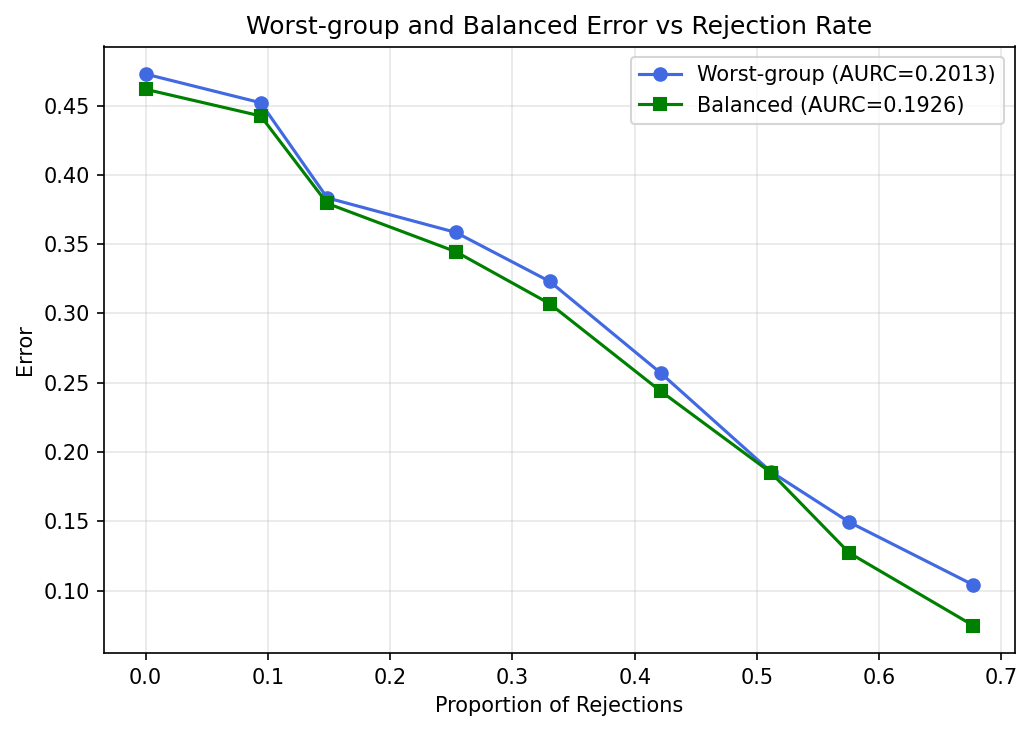
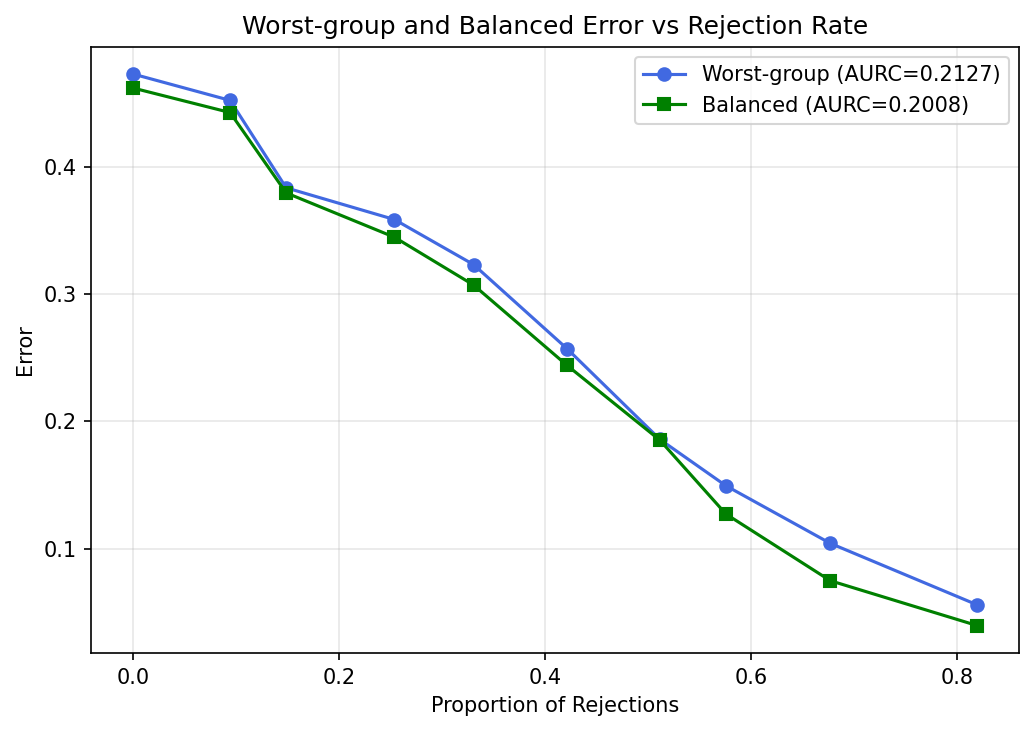
feat: new

diff --git a/run_worst_plugin_gating.py b/run_worst_plugin_gating.py
@@ -63,7 +63,7 @@ class Config:
     eg_step: float = 1.0
 
     # Target rejection grid
-    target_rejections: List[float] = (0.0, 0.1, 0.2, 0.3, 0.4, 0.5, 0.6, 0.7, 0.8)
+    target_rejections: List[float] = (0.0, 0.1, 0.2, 0.3, 0.4, 0.5, 0.6, 0.7, 0.8, 0.9)
 
     seed: int = 42
 
@@ -76,7 +76,9 @@ def ensure_dirs():
     Path(CFG.results_dir).mkdir(parents=True, exist_ok=True)
 
 
-def load_expert_logits(expert_names: List[str], split: str, device: str = DEVICE) -> torch.Tensor:
+def load_expert_logits(
+    expert_names: List[str], split: str, device: str = DEVICE
+) -> torch.Tensor:
     logits_list = []
     for expert_name in expert_names:
         path = Path(CFG.logits_dir) / expert_name / f"{split}_logits.pt"
@@ -96,12 +98,15 @@ def load_labels(split: str, device: str = DEVICE) -> torch.Tensor:
         if isinstance(t, torch.Tensor):
             return t.to(device=device, dtype=torch.long)
     import torchvision
+
     indices_file = Path(CFG.splits_dir) / f"{split}_indices.json"
     with open(indices_file, "r", encoding="utf-8") as f:
         indices = json.load(f)
     is_train = split in ("expert", "gating", "train")
     ds = torchvision.datasets.CIFAR100(root="./data", train=is_train, download=False)
-    return torch.tensor([ds.targets[i] for i in indices], dtype=torch.long, device=device)
+    return torch.tensor(
+        [ds.targets[i] for i in indices], dtype=torch.long, device=device
+    )
 
 
 def load_class_weights(device: str = DEVICE) -> torch.Tensor:
@@ -121,8 +126,11 @@ def load_class_weights(device: str = DEVICE) -> torch.Tensor:
 def load_gating_network(device: str = DEVICE):
     from src.models.gating_network_map import GatingNetwork, GatingMLP
     from src.models.gating import GatingFeatureBuilder
+
     num_experts = len(CFG.expert_names)
-    gating = GatingNetwork(num_experts=num_experts, num_classes=CFG.num_classes, routing="dense").to(device)
+    gating = GatingNetwork(
+        num_experts=num_experts, num_classes=CFG.num_classes, routing="dense"
+    ).to(device)
     # Rebuild MLP to match compact feature dimension from training (7*E + 3)
     compact_dim = 7 * num_experts + 3
     gating.mlp = GatingMLP(
@@ -130,7 +138,7 @@ def load_gating_network(device: str = DEVICE):
         num_experts=num_experts,
         hidden_dims=[256, 128],
         dropout=0.1,
-        activation='relu',
+        activation="relu",
     ).to(device)
     checkpoint_path = Path(CFG.gating_checkpoint)
     if not checkpoint_path.exists():
@@ -151,7 +159,9 @@ def load_gating_network(device: str = DEVICE):
 
 
 @torch.no_grad()
-def compute_mixture_posterior(expert_logits: torch.Tensor, gating_net, device: str = DEVICE) -> torch.Tensor:
+def compute_mixture_posterior(
+    expert_logits: torch.Tensor, gating_net, device: str = DEVICE
+) -> torch.Tensor:
     # expert_logits: [N, E, C]
     expert_posteriors = F.softmax(expert_logits, dim=-1)
     num_experts_logits = expert_logits.shape[1]
@@ -162,6 +172,7 @@ def compute_mixture_posterior(expert_logits: torch.Tensor, gating_net, device: s
         )
     # Build compact features and get weights via MLP + router
     from src.models.gating import GatingFeatureBuilder
+
     feat_builder = GatingFeatureBuilder()
     features = feat_builder(expert_logits)  # [N, 7*E+3]
     gating_logits = gating_net.mlp(features)
@@ -199,7 +210,9 @@ class GeneralizedLtRPlugin(nn.Module):
         num_groups = int(class_to_group.max().item() + 1)
         self.register_buffer("alpha_group", torch.ones(num_groups))
         self.register_buffer("mu_group", torch.zeros(num_groups))
-        self.register_buffer("beta_group", torch.ones(num_groups) / float(max(num_groups, 1)))
+        self.register_buffer(
+            "beta_group", torch.ones(num_groups) / float(max(num_groups, 1))
+        )
         self.register_buffer("cost", torch.tensor(0.0))
 
     def set_params(
@@ -216,7 +229,7 @@ class GeneralizedLtRPlugin(nn.Module):
 
     def _u_class(self) -> torch.Tensor:
         eps = 1e-12
-        u_group = (self.beta_group / self.alpha_group.clamp(min=eps))
+        u_group = self.beta_group / self.alpha_group.clamp(min=eps)
         return u_group[self.class_to_group]
 
     def _mu_class(self) -> torch.Tensor:
@@ -228,7 +241,9 @@ class GeneralizedLtRPlugin(nn.Module):
         return (posterior * u).argmax(dim=-1)
 
     @torch.no_grad()
-    def reject(self, posterior: torch.Tensor, cost: Optional[float] = None) -> torch.Tensor:
+    def reject(
+        self, posterior: torch.Tensor, cost: Optional[float] = None
+    ) -> torch.Tensor:
         u = self._u_class().unsqueeze(0)
         mu = self._mu_class().unsqueeze(0)
         max_reweighted = (posterior * u).max(dim=-1)[0]
@@ -278,7 +293,9 @@ def compute_metrics(
             group_errors.append(float(errors[mask].mean().item()))
         else:
             cw = class_weights[labels_a]
-            num = float((cw[mask] * (preds_a[mask] != labels_a[mask]).float()).sum().item())
+            num = float(
+                (cw[mask] * (preds_a[mask] != labels_a[mask]).float()).sum().item()
+            )
             den = float(cw[mask].sum().item())
             group_errors.append(num / max(den, 1e-12))
 
@@ -342,7 +359,7 @@ def compute_cost_for_target_rejection(
     alpha_t = torch.tensor(alpha, dtype=torch.float32, device=DEVICE)
     mu_t = torch.tensor(mu, dtype=torch.float32, device=DEVICE)
     beta_t = torch.tensor(beta, dtype=torch.float32, device=DEVICE)
-    u_group = (beta_t / alpha_t.clamp(min=1e-12))
+    u_group = beta_t / alpha_t.clamp(min=1e-12)
     u_class = u_group[class_to_group]
     mu_class = mu_t[class_to_group]
     max_rew = (posterior * u_class.unsqueeze(0)).max(dim=-1)[0]
@@ -367,9 +384,19 @@ def cs_plugin_inner(
     class_weights: Optional[torch.Tensor],
 ) -> Tuple[np.ndarray, np.ndarray, float, Dict[str, float]]:
     K = int(class_to_group.max().item() + 1)
-    best = {"obj": float("inf"), "alpha": None, "mu": None, "cost": None, "metrics": None}
+    best = {
+        "obj": float("inf"),
+        "alpha": None,
+        "mu": None,
+        "cost": None,
+        "metrics": None,
+    }
     for lam in CFG.mu_lambda_grid:
-        mu = np.array([0.0, float(lam)], dtype=np.float64) if K == 2 else np.zeros(K, dtype=np.float64)
+        mu = (
+            np.array([0.0, float(lam)], dtype=np.float64)
+            if K == 2
+            else np.zeros(K, dtype=np.float64)
+        )
         alpha = initialize_alpha(labels_s1, class_to_group)
         for _ in range(CFG.power_iter_iters):
             beta_t = torch.tensor(beta, dtype=torch.float32, device=DEVICE)
@@ -389,8 +416,12 @@ def cs_plugin_inner(
                 float(c_it),
             )
             rej = plugin.reject(posterior_s1)
-            alpha_new = update_alpha_from_coverage(rej, labels_s1, class_to_group, class_weights)
-            alpha = (1.0 - CFG.power_iter_damping) * alpha + CFG.power_iter_damping * alpha_new
+            alpha_new = update_alpha_from_coverage(
+                rej, labels_s1, class_to_group, class_weights
+            )
+            alpha = (
+                1.0 - CFG.power_iter_damping
+            ) * alpha + CFG.power_iter_damping * alpha_new
         c_s2 = compute_cost_for_target_rejection(
             posterior_s2, class_to_group, alpha, mu, beta, target_rej
         )
@@ -402,10 +433,18 @@ def cs_plugin_inner(
         )
         preds_s2 = plugin.predict(posterior_s2)
         rej_s2 = plugin.reject(posterior_s2)
-        m_s2 = compute_metrics(preds_s2, labels_s2, rej_s2, class_to_group, class_weights)
+        m_s2 = compute_metrics(
+            preds_s2, labels_s2, rej_s2, class_to_group, class_weights
+        )
         obj = float(np.sum(np.array(m_s2["group_errors"]) * np.array(beta)))
         if obj < best["obj"]:
-            best = {"obj": obj, "alpha": alpha.copy(), "mu": mu.copy(), "cost": float(c_s2), "metrics": m_s2}
+            best = {
+                "obj": obj,
+                "alpha": alpha.copy(),
+                "mu": mu.copy(),
+                "cost": float(c_s2),
+                "metrics": m_s2,
+            }
     # Local refinement around best μ (λ)
     if K == 2 and best["mu"] is not None:
         base_lam = float(best["mu"][1])
@@ -432,8 +471,12 @@ def cs_plugin_inner(
                         float(c_it),
                     )
                     rej = plugin.reject(posterior_s1)
-                    alpha_new = update_alpha_from_coverage(rej, labels_s1, class_to_group, class_weights)
-                    alpha = (1.0 - CFG.power_iter_damping) * alpha + CFG.power_iter_damping * alpha_new
+                    alpha_new = update_alpha_from_coverage(
+                        rej, labels_s1, class_to_group, class_weights
+                    )
+                    alpha = (
+                        1.0 - CFG.power_iter_damping
+                    ) * alpha + CFG.power_iter_damping * alpha_new
                 c_s2 = compute_cost_for_target_rejection(
                     posterior_s2, class_to_group, alpha, mu, beta, target_rej
                 )
@@ -445,18 +488,28 @@ def cs_plugin_inner(
                 )
                 preds_s2 = plugin.predict(posterior_s2)
                 rej_s2 = plugin.reject(posterior_s2)
-                m_s2 = compute_metrics(preds_s2, labels_s2, rej_s2, class_to_group, class_weights)
+                m_s2 = compute_metrics(
+                    preds_s2, labels_s2, rej_s2, class_to_group, class_weights
+                )
                 obj = float(np.sum(np.array(m_s2["group_errors"]) * np.array(beta)))
                 tried.append((lam, obj, alpha.copy(), mu.copy(), float(c_s2), m_s2))
             lam_b, obj_b, alpha_b, mu_b, c_b, m_b = min(tried, key=lambda x: x[1])
             if obj_b < best["obj"]:
-                best = {"obj": obj_b, "alpha": alpha_b, "mu": mu_b, "cost": c_b, "metrics": m_b}
+                best = {
+                    "obj": obj_b,
+                    "alpha": alpha_b,
+                    "mu": mu_b,
+                    "cost": c_b,
+                    "metrics": m_b,
+                }
                 base_lam = lam_b
             step *= 0.5
     return best["alpha"], best["mu"], best["cost"], best["metrics"]
 
 
-def plot_rc(r: np.ndarray, ew: np.ndarray, eb: np.ndarray, aw: float, ab: float, out_path: Path):
+def plot_rc(
+    r: np.ndarray, ew: np.ndarray, eb: np.ndarray, aw: float, ab: float, out_path: Path
+):
     plt.figure(figsize=(7, 5))
     plt.plot(r, ew, "o-", label=f"Worst-group (AURC={aw:.4f})", color="royalblue")
     plt.plot(r, eb, "s-", label=f"Balanced (AURC={ab:.4f})", color="green")
@@ -504,7 +557,15 @@ def main():
         cost_best = None
         for _ in range(CFG.eg_iters):
             alpha_t, mu_t, cost_t, metr_s2 = cs_plugin_inner(
-                plugin, post_s1, labels_s1, post_s2, labels_s2, class_to_group, beta, float(target_rej), class_weights
+                plugin,
+                post_s1,
+                labels_s1,
+                post_s2,
+                labels_s2,
+                class_to_group,
+                beta,
+                float(target_rej),
+                class_weights,
             )
             # EG update using group errors on S2
             e = np.array(metr_s2["group_errors"], dtype=np.float64)
@@ -514,7 +575,9 @@ def main():
             alpha_best, mu_best, cost_best = alpha_t, mu_t, cost_t
 
         # Evaluate on test using final params
-        c_test = compute_cost_for_target_rejection(post_test, class_to_group, alpha_best, mu_best, beta, float(target_rej))
+        c_test = compute_cost_for_target_rejection(
+            post_test, class_to_group, alpha_best, mu_best, beta, float(target_rej)
+        )
         plugin.set_params(
             torch.tensor(alpha_best, dtype=torch.float32, device=DEVICE),
             torch.tensor(mu_best, dtype=torch.float32, device=DEVICE),
@@ -523,20 +586,24 @@ def main():
         )
         preds_test = plugin.predict(post_test)
         rej_test = plugin.reject(post_test)
-        m_test = compute_metrics(preds_test, labels_test, rej_test, class_to_group, class_weights)
-        results.append({
-            "target_rejection": float(target_rej),
-            "beta": beta.tolist(),
-            "alpha": alpha_best.tolist(),
-            "mu": mu_best.tolist(),
-            "cost_test": float(c_test),
-            "test_metrics": {
-                "coverage": float(m_test["coverage"]),
-                "balanced_error": float(m_test["balanced_error"]),
-                "worst_group_error": float(m_test["worst_group_error"]),
-                "group_errors": [float(x) for x in m_test["group_errors"]],
-            },
-        })
+        m_test = compute_metrics(
+            preds_test, labels_test, rej_test, class_to_group, class_weights
+        )
+        results.append(
+            {
+                "target_rejection": float(target_rej),
+                "beta": beta.tolist(),
+                "alpha": alpha_best.tolist(),
+                "mu": mu_best.tolist(),
+                "cost_test": float(c_test),
+                "test_metrics": {
+                    "coverage": float(m_test["coverage"]),
+                    "balanced_error": float(m_test["balanced_error"]),
+                    "worst_group_error": float(m_test["worst_group_error"]),
+                    "group_errors": [float(x) for x in m_test["group_errors"]],
+                },
+            }
+        )
 
     r = np.array([1.0 - r_["test_metrics"]["coverage"] for r_ in results])
     ew = np.array([r_["test_metrics"]["worst_group_error"] for r_ in results])
@@ -552,25 +619,33 @@ def main():
         else:
             gap.append(float("nan"))
     gap = np.array(gap)[idx]
-    aurc_w = float(np.trapz(ew, r)) if r.size > 1 else float(ew.mean() if ew.size else 0.0)
-    aurc_b = float(np.trapz(eb, r)) if r.size > 1 else float(eb.mean() if eb.size else 0.0)
+    aurc_w = (
+        float(np.trapz(ew, r)) if r.size > 1 else float(ew.mean() if ew.size else 0.0)
+    )
+    aurc_b = (
+        float(np.trapz(eb, r)) if r.size > 1 else float(eb.mean() if eb.size else 0.0)
+    )
 
     out_json = Path(CFG.results_dir) / "ltr_plugin_gating_worst.json"
     with open(out_json, "w", encoding="utf-8") as f:
-        json.dump({
-            "description": "Worst-group plug-in via Algorithm 2 with inner CS plug-in (Algorithm 1). Mixture posterior from gating over 3 experts.",
-            "experts": CFG.expert_names,
-            "target_rejections": list(CFG.target_rejections),
-            "results_per_point": results,
-            "rc_curve": {
-                "rejection_rates": r.tolist(),
-                "worst_group_errors": ew.tolist(),
-                "balanced_errors": eb.tolist(),
-                "tail_minus_head": gap.tolist(),
-                "aurc_worst_group": aurc_w,
-                "aurc_balanced": aurc_b,
+        json.dump(
+            {
+                "description": "Worst-group plug-in via Algorithm 2 with inner CS plug-in (Algorithm 1). Mixture posterior from gating over 3 experts.",
+                "experts": CFG.expert_names,
+                "target_rejections": list(CFG.target_rejections),
+                "results_per_point": results,
+                "rc_curve": {
+                    "rejection_rates": r.tolist(),
+                    "worst_group_errors": ew.tolist(),
+                    "balanced_errors": eb.tolist(),
+                    "tail_minus_head": gap.tolist(),
+                    "aurc_worst_group": aurc_w,
+                    "aurc_balanced": aurc_b,
+                },
             },
-        }, f, indent=2)
+            f,
+            indent=2,
+        )
 
     plot_path = Path(CFG.results_dir) / "ltr_rc_curves_balanced_worst_gating_test.png"
     plot_rc(r, ew, eb, aurc_w, aurc_b, plot_path)
@@ -599,5 +674,3 @@ def main():
 
 if __name__ == "__main__":
     main()
-
-
